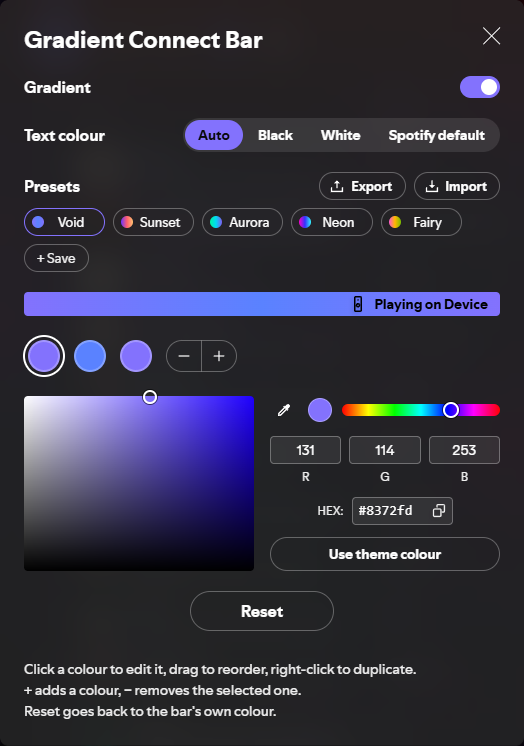
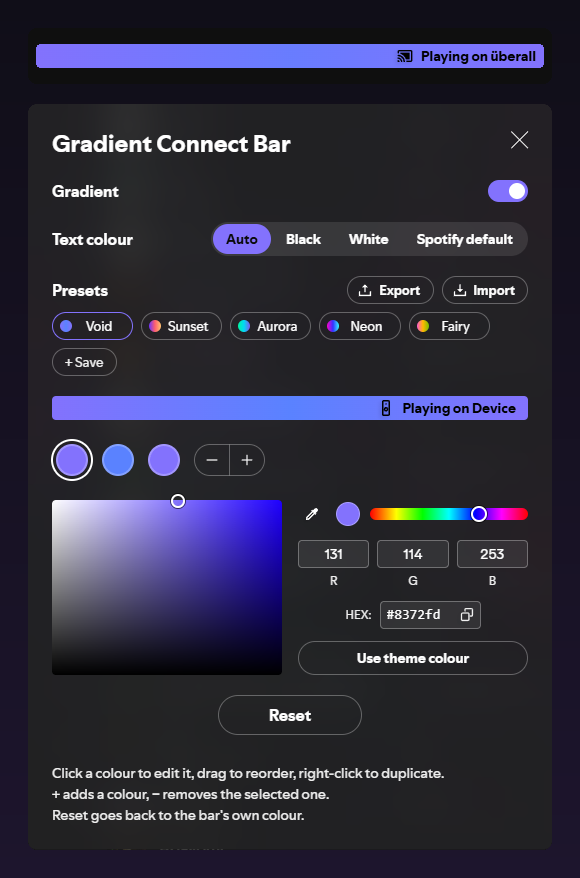
preview.png: Connect bar above the settings window, in GPB's style (580 px wide)
Claude-Session: https://claude.ai/code/session_01BMXuEBN8HjYdRfrsjYN5t4

diff --git a/CLAUDE.md b/CLAUDE.md
@@ -46,7 +46,7 @@ The maintainer (Void) has little time at the PC and wants to **bug-test finished
 | `.github/workflows/purge-jsdelivr.yml` | Push, release and manual: re-enables `cdn-heal.yml`, purges jsDelivr `@main` and polls up to 20 min for the new `VERSION`. Throttling and a stale CDN are warnings. |
 | `.github/workflows/cdn-heal.yml` | Every 3 h (`23 */3 * * *`) and manually: purges again only while the CDN's `VERSION` differs from `main`'s. A separate file, because GitHub disables a whole scheduled workflow after 60 days without activity. |
 | `.github/scripts/purge-jsdelivr.sh` | The purge-and-poll logic both workflows run (`--if-stale` for the heal). |
-| `preview.png` | Marketplace screenshot and the README's image: the settings window with the preview strip (Void's screenshot, #18). |
+| `preview.png` | Marketplace screenshot and the README's image, 580 px wide like GPB's: the Connect bar above the settings window on GPB's backdrop, composed from Void's screenshots (#18). The bar is shortened by cutting out its middle, seamless because the Void gradient is symmetric. |
 | `CHANGELOG.md` | Release notes, one entry per tagged version. |
 | `LICENSE` | WTFPL v2, byte-identical to GPB's and https://www.wtfpl.net/txt/copying/ (`.gitattributes` keeps it `-text`). |
 

diff --git a/README.md b/README.md
@@ -4,7 +4,7 @@ A [Spicetify](https://spicetify.app) extension that recolours Spotify's **Connec
 
 > **Status:** released — **v1.0.0**. See the [changelog](CHANGELOG.md) and the [roadmap](ROADMAP.md).
 
-<p align="center"><img src="preview.png" alt="Gradient Connect Bar: the settings window, with the preview strip showing a gradient Connect bar" width="524"></p>
+<p align="center"><img src="preview.png" alt="Gradient Connect Bar: a gradient Connect bar and the settings window with the preview strip" width="580"></p>
 
 ## Features
 
